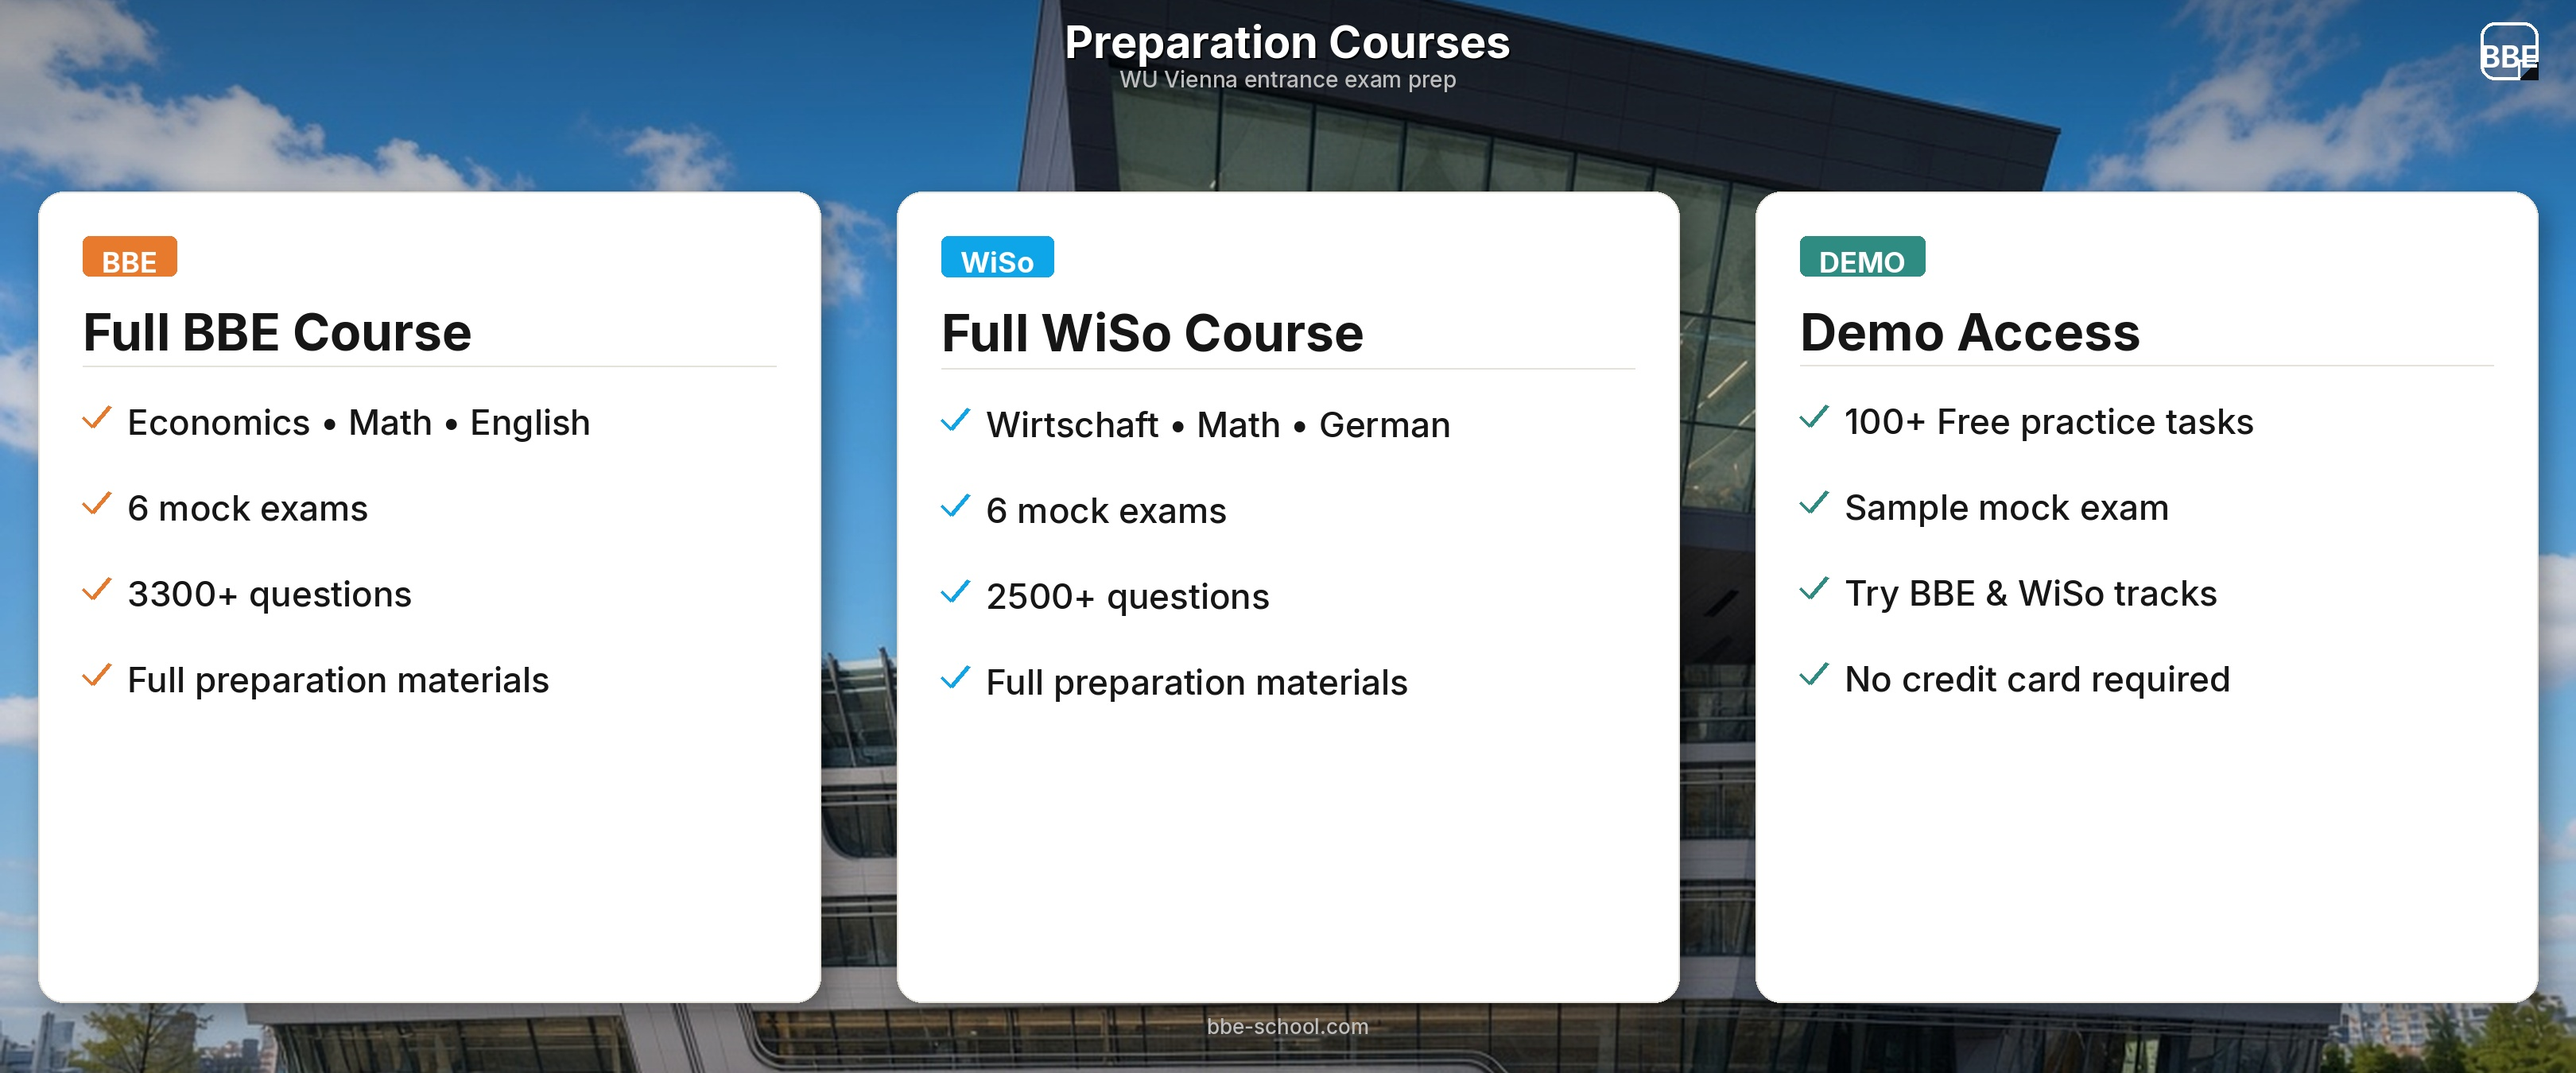
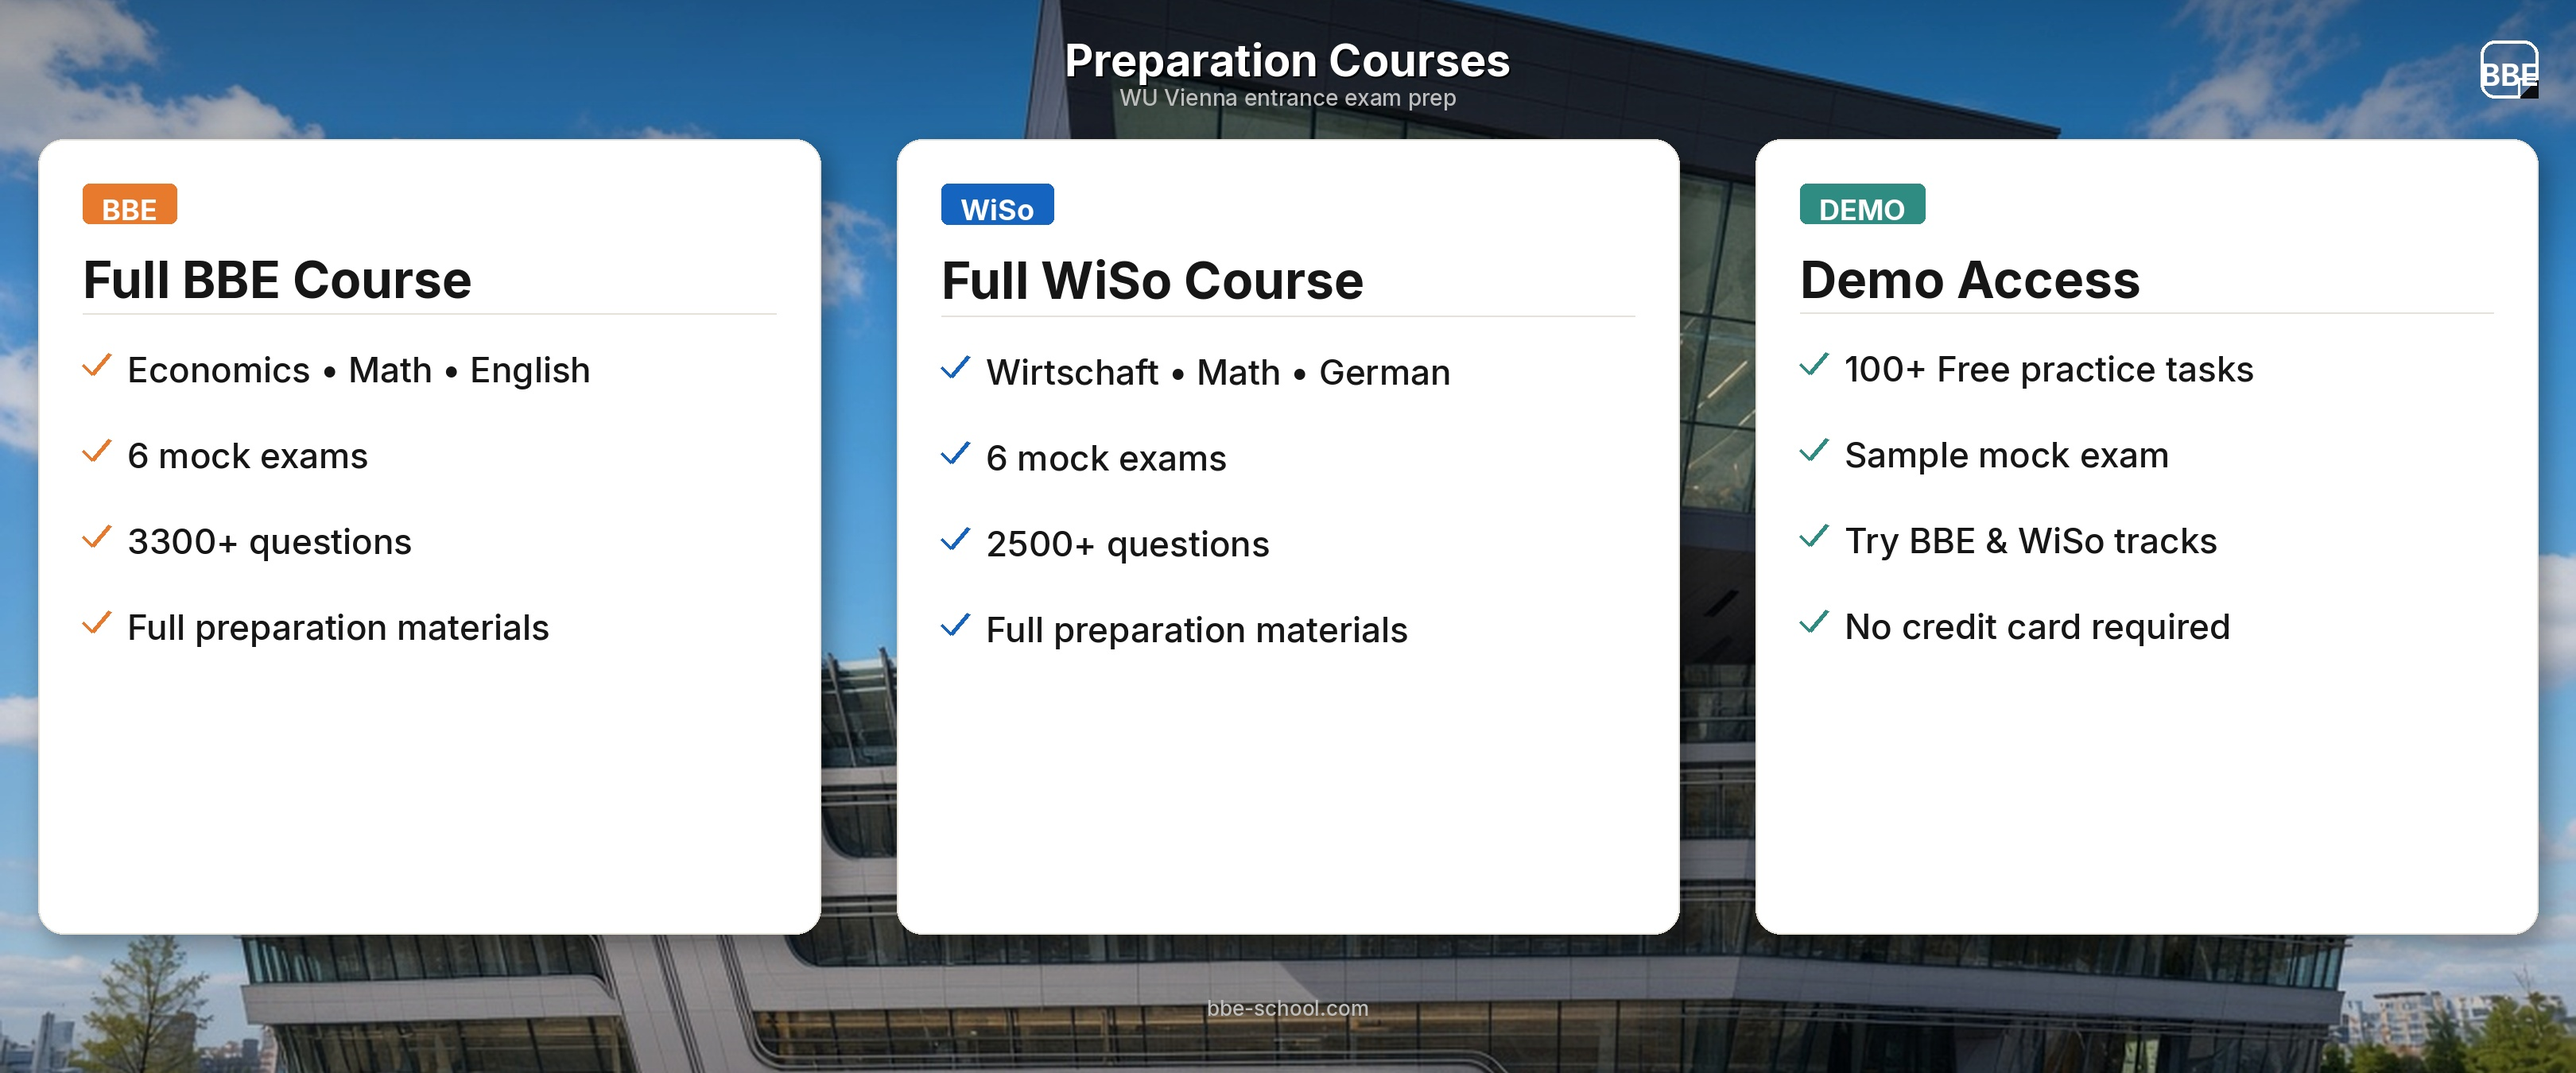
True-center white cards; WiSo pure blue without purple cast.

diff --git a/scripts/make_instagram_pinned_banner.py b/scripts/make_instagram_pinned_banner.py
@@ -25,24 +25,19 @@ MUTED_LT = (190, 190, 190)
 CARD = (255, 255, 255)
 CARD_BORDER = (230, 226, 218)
 ORANGE = (232, 122, 46)
-BLUE = (14, 165, 233)  # WiSo — sky blue (#0EA5E9), clearly not purple
+BLUE = (21, 101, 192)  # WiSo — pure blue (#1565C0), no purple/magenta
 TEAL = (46, 140, 130)
 WHITE = (255, 255, 255)
 
 # Layout system (each Instagram tile = 1080×1350)
-# Header sits in a fixed top band; cards are optically centered in the
-# remaining space (equal gap under header and above footer).
+# True geometric center of the white card in the tile.
 MARGIN_X = 48
 CARD_W = TILE_W - 2 * MARGIN_X  # 984
-HEADER_BAND = 128  # title + subtitle zone
-FOOTER_BAND = 48
-CARD_H = 1020
-_free = TILE_H - HEADER_BAND - FOOTER_BAND - CARD_H  # space to split
-GAP_AROUND = _free // 2
-# Nudge cards slightly down — header text makes equal gaps look top-heavy
-NUDGE_DOWN = 36
-MARGIN_TOP = HEADER_BAND + GAP_AROUND + NUDGE_DOWN
-MARGIN_BOTTOM = TILE_H - MARGIN_TOP - CARD_H
+CARD_H = 1000
+MARGIN_TOP = (TILE_H - CARD_H) // 2  # 175
+MARGIN_BOTTOM = TILE_H - MARGIN_TOP - CARD_H  # 175
+HEADER_BAND = MARGIN_TOP  # header drawn inside top margin
+FOOTER_BAND = MARGIN_BOTTOM
 CARD_PAD = 56  # inner padding
 GAP_TAG_TITLE = 32
 GAP_TITLE_RULE = 32
